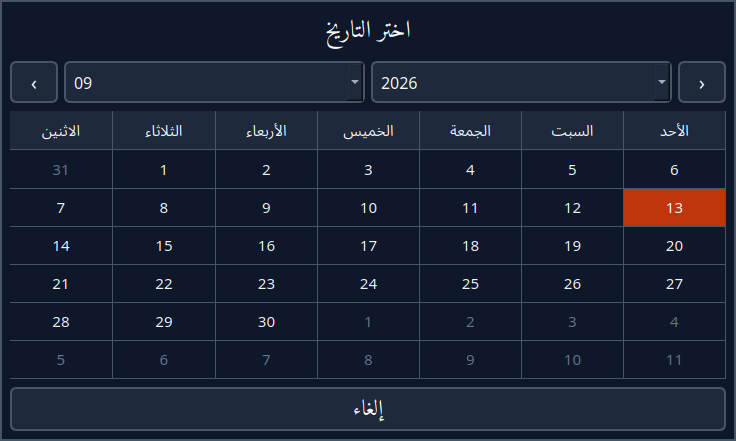
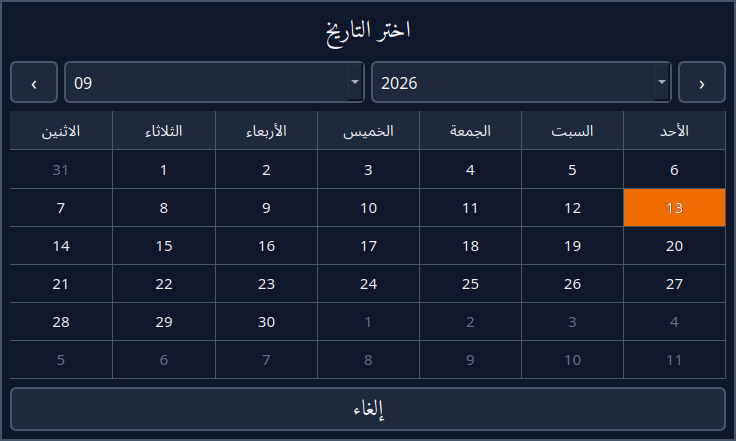
Per-device manual and Sakina wallpaper on update, lighter makrooh orange, Settings keeps Amiri
bump pi 1.5.4 version

Changed region(s): [[0.8438, 0.4127, 1.0, 0.5306]]

diff --git a/scheduler-official-touch-screen-with-raspberry-pi-4/applications/manual_cover/cover.html b/scheduler-official-touch-screen-with-raspberry-pi-4/applications/manual_cover/cover.html
@@ -23,9 +23,9 @@ body { position: relative; font-family: AmiriC, serif; -webkit-print-color-adjus
 .text p { font-size: 13pt; line-height: 1.6; color: #CBD5E1; }
 .date { position: absolute; bottom: 6mm; left: 0; right: 0; text-align: center; color: #94A3B8; font-size: 11pt; }
 </style></head><body>
-<img class="photo" src="../../tools/manual_pdf/cover-photo.jpg">
+<img class="photo" src="{{BASE}}/applications/manual_cover/cover-photo.jpg">
 <div class="title">
-<div class="mark"><div class="lockup"><img class="logo" src="../../scheduler-official-touch-screen-with-raspberry-pi-4/config/icons/athan-app-icon-256.png"><div class="brand">السكينة</div></div>
+<div class="mark"><div class="lockup"><img class="logo" src="{{BASE}}/config/icons/athan-app-icon-256.png"><div class="brand">السكينة</div></div>
 <div class="rule"></div></div>
 <h1>دليل المستخدم</h1>
 <h2>نظام مواقيت الصلاة والأذان</h2>

diff --git a/scheduler-official-touch-screen-with-raspberry-pi-4/applications/manual_cover/make_cover.py b/scheduler-official-touch-screen-with-raspberry-pi-4/applications/manual_cover/make_cover.py
@@ -1,18 +1,30 @@
-"""Write the cover build_manual_pdf.sh prints ahead of the manual.
+"""Write the cover of the user manual as HTML, for Chrome or Chromium to print.
 
-    make_cover.py <cover.html> <out.html> <date> <repo root> <device> <page>
+    make_cover.py <out.html> <device> [<date> <page>]
 
 The cover carries a QR code for http://<device>.local - the page the phone app is
 installed from - and the page of the manual where those steps are. The shared manual is
 built for "hostname", the placeholder the manual itself uses; a device's own copy for its
 name.
+
+Two callers. tools/build_manual_pdf.sh, on the admin's machine, passes the date and page
+it has just worked out, and saves them to cover.json beside this file. A device, making
+its own copy of the shipped manual (config/scripts/device_manual.sh), passes only its
+name: the rest comes from that cover.json, so its cover matches the pages behind it.
 """
 
 import html
+import json
 import sys
 from pathlib import Path
 
 import segno
+
+HERE = Path(__file__).resolve().parent
+TEMPLATE = HERE / "cover.html"
+COVER_JSON = HERE / "cover.json"
+# The scheduler tree: cover.html names its images from here.
+BASE = HERE.parent.parent
 
 
 def setup_block(device: str, page: str) -> str:
@@ -27,11 +39,16 @@ def setup_block(device: str, page: str) -> str:
 
 
 def main() -> None:
-    if len(sys.argv) != 7:
+    if len(sys.argv) == 3:
+        saved = json.loads(COVER_JSON.read_text(encoding="utf-8"))
+        date, page = saved["date"], str(saved["page"])
+    elif len(sys.argv) == 5:
+        date, page = sys.argv[3], sys.argv[4]
+    else:
         raise SystemExit(__doc__)
-    cover, out, date, repo, device, page = sys.argv[1:7]
-    text = Path(cover).read_text(encoding="utf-8")
-    text = text.replace("{{DATE}}", date).replace('src="../../', f'src="{repo}/')
+    out, device = sys.argv[1], sys.argv[2]
+    text = TEMPLATE.read_text(encoding="utf-8")
+    text = text.replace("{{BASE}}", str(BASE)).replace("{{DATE}}", html.escape(date))
     text = text.replace("{{SETUP}}", setup_block(device, page))
     Path(out).write_text(text, encoding="utf-8")
 

diff --git a/scheduler-official-touch-screen-with-raspberry-pi-4/applications/services/web_ui/api.py b/scheduler-official-touch-screen-with-raspberry-pi-4/applications/services/web_ui/api.py
@@ -28,7 +28,7 @@ PERIOD_COLORS = {
     "green": "#006600",
     "beige": "#E7DBC1",
     "red": "#990000",
-    "makrooh": "#BF360C",
+    "makrooh": "#EF6C00",
 }
 PERIOD_TEXT = {
     "green": "#FFFFFF",
@@ -45,7 +45,7 @@ COUNTDOWN_BG_DEFAULT = "#333333"
 COUNTDOWN_FILL = {
     "green": "#006600",
     "red": "#990000",
-    "makrooh": "#BF360C",
+    "makrooh": "#EF6C00",
     "beige": COUNTDOWN_BG_DEFAULT,
 }
 COUNTDOWN_TEXT = "#FFFFFF"
@@ -68,8 +68,8 @@ CARD_ACTIVE = {
                 "glow": "rgba(231, 219, 193, 0.35)", "text": "#4A3F2F", "flat": False},
     "red":     {"from": "#990000", "to": "#780000", "border": "#b50000",
                 "glow": "rgba(153, 0, 0, 0.35)", "text": "#FFFFFF", "flat": False},
-    "makrooh": {"from": "#bf360c", "to": "#bf360c", "border": "#e1400e",
-                "glow": "rgba(191, 54, 12, 0.35)", "text": "#FFFFFF", "flat": True},
+    "makrooh": {"from": "#ef6c00", "to": "#ef6c00", "border": "#ff821b",
+                "glow": "rgba(239, 108, 0, 0.35)", "text": "#FFFFFF", "flat": True},
 }
 
 # And the cards that are not running: CARD_BG, CARD_BORDER and NAME_COLOR from the app.
@@ -90,8 +90,8 @@ CARD_BADGE = {
                 "glow": "rgba(231, 219, 193, 0.47)", "text": "#4A3F2F"},
     "red":     {"from": "#ab0000", "to": "#7d0000", "border": "#b50000",
                 "glow": "rgba(153, 0, 0, 0.47)", "text": "#FFFFFF"},
-    "makrooh": {"from": "#d63c0d", "to": "#9d2c0a", "border": "#e1400e",
-                "glow": "rgba(191, 54, 12, 0.47)", "text": "#FFFFFF"},
+    "makrooh": {"from": "#ff7a0d", "to": "#c45900", "border": "#ff821b",
+                "glow": "rgba(239, 108, 0, 0.47)", "text": "#FFFFFF"},
 }
 
 

diff --git a/scheduler-official-touch-screen-with-raspberry-pi-4/applications/desktop/prayer_times_gui/main.py b/scheduler-official-touch-screen-with-raspberry-pi-4/applications/desktop/prayer_times_gui/main.py
@@ -154,9 +154,10 @@ COUNTDOWN_BG_RED = "#990000"      # the 20 minutes before the next athan
 # Both makrooh windows: from sunrise until Duha opens, and the zawal stretch at
 # the end of Duha. Neither is merely "the next athan is close" - praying nafl in
 # them is discouraged, so they read as their own state rather than as red.
-# The deep burnt orange this counter has always used. A lighter, brighter orange
-# washes out to yellow on these panels and leaves white text hard to read on it.
-COUNTDOWN_BG_MAKROOH = "#BF360C"
+# A clear orange. The deeper #BF360C it replaced read as red on phones, next to the
+# red of the minutes before an athan; anything lighter than this washes out to yellow
+# and leaves the white text too faint.
+COUNTDOWN_BG_MAKROOH = "#EF6C00"
 
 # --- Window buttons ----------------------------------------------------------
 # A row of five in the top-left corner: close, fullscreen, view, mute, settings. Centred

diff --git a/tools/tests/test_one_app.py b/tools/tests/test_one_app.py
@@ -224,5 +224,14 @@ counter.audio_poll_due = 0
 counter.sync_mute_state()
 chk("and it goes when the sound is back", counter.mute_until.isHidden(), True)
 
+print("7. Settings keeps Amiri when the desktop's qt5ct theme sets another font")
+# qt5ct (Nunito Sans, no Arabic) is only there in the desktop session, so this reads the
+# order in the source: not desktop-settings-aware, before the app exists.
+source = open(SETTINGS_APP, encoding="utf-8").read()
+main_block = source[source.index('if __name__ == "__main__":'):]
+aware = main_block.find("QApplication.setDesktopSettingsAware(False)")
+chk("not desktop-settings-aware, before QApplication is made",
+    0 <= aware < main_block.index("QApplication(sys.argv)"), True)
+
 print("\n" + ("ALL PASS" if not fails else "FAILURES: " + ", ".join(fails)))
 sys.exit(1 if fails else 0)

diff --git a/scheduler-official-touch-screen-with-raspberry-pi-4/applications/desktop/scheduler_settings_gui/main.py b/scheduler-official-touch-screen-with-raspberry-pi-4/applications/desktop/scheduler_settings_gui/main.py
@@ -3188,6 +3188,12 @@ if __name__ == "__main__":
             sys.exit(0)
         sys.argv += ["--background", "--present", "--desktop"]
 
+    # Started with the desktop session, the app runs under the qt5ct platform theme, which
+    # sets its own font - Nunito Sans, with no Arabic - on the whole app once the event
+    # loop starts, over the Amiri below. Every label and checkbox that does not name a
+    # family of its own then falls back to DejaVu Sans. Not desktop-settings-aware, qt5ct
+    # leaves fonts and palette alone and still supplies the style.
+    QApplication.setDesktopSettingsAware(False)
     app = QApplication(sys.argv)
     app.setFont(QFont("Amiri"))
     # The task list on the panel does not read the window icon set above: on Wayland it is

diff --git a/ADMIN_MANUAL.md b/ADMIN_MANUAL.md
@@ -80,8 +80,10 @@ at it. Rolling the fleet back is the same edit in reverse.
 | `tools/tests/test_static_website.py` | the public city sites: each year's clock changes, the pages and the device app, New Year in the browser, the city folders (§18) |
 | `static-website/sakina/` | the public city sites and their builder (§18) |
 | `.github/workflows/sakina-static-website.yml` | rebuilds and commits the city sites (§18) |
-| `tools/build_manual_pdf.sh` | builds `USER_MANUAL_AR.pdf` from the `.md`: cover, index with page numbers, then the manual numbered from 1. Run it after every edit to the manual |
+| `tools/build_manual_pdf.sh` | builds `USER_MANUAL_AR.pdf` from the `.md`: cover, index with page numbers, then the manual numbered from 1, and saves the cover's date and page to `applications/manual_cover/cover.json`. Run it after every edit to the manual and commit both. Each device then makes its own copy after the next update - `config/scripts/device_manual.sh` prints a cover with its own `<name>.local` and QR code in front of the shipped pages and writes `~/Desktop/دليل-المستخدم.pdf` - so `--device <name> <out.pdf>` is only needed for a device that is not updating |
 | `tools/tests/test_manual_pdf.sh` | builds the manual PDF into a temp file and checks the page numbering and that every index number matches the page its link opens |
+| `tools/tests/test_wallpaper.sh` | `set_wallpaper.sh` with a fake HOME and a stand-in pcmanfm: the desktop background becomes `config/wallpaper/sakina-wallpaper.jpg`, told to the running desktop over its socket or written to its config otherwise, once per picture so an owner's own choice stays until a release ships a new one |
+| `tools/tests/test_device_manual.sh` | `device_manual.sh` on a copy of the tree: the device's copy has its own address and QR code on the cover and the shipped pages behind it, is remade only when the manual, the cover or the name changes, takes Avahi's `host-name` over the hostname, and skips rather than fails without chromium, qpdf or segno |
 
 **On each device, under `~/Desktop/scheduler/`**
 
